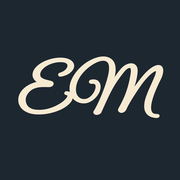
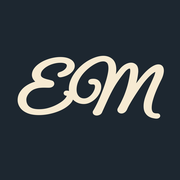
Bold + transparent the EM monogram
icon.svg and favicon.ico drop the slate tile for a transparent
background and switch the letters to dark ink — cream nearly vanished
against the light tab bar most browsers still default to. Bumped the
stroke weight across all faces (icon.svg, favicon.ico, apple-icon.png)
so the script reads clearly at 16px instead of thinning out.
apple-icon.png keeps its opaque tile: iOS still fills transparent
pixels in with black on plenty of devices.

diff --git a/scripts/gen-social-assets.py b/scripts/gen-social-assets.py
@@ -2,10 +2,16 @@
 # site: the browser-tab / home-screen icon and the card that unfurls when the URL
 # is pasted into iMessage, Slack, Discord, X, LinkedIn…
 #
-#   src/app/icon.svg              cursive "EM" monogram, vector (modern browsers)
+#   src/app/icon.svg              cursive "EM" monogram, vector, transparent bg
 #   src/app/favicon.ico           the same monogram at 16/32/48 (legacy browsers)
 #   src/app/apple-icon.png        180x180, full-bleed (iOS rounds it itself)
 #   src/app/opengraph-image.jpg   1200x630 social card — the hero, re-framed
+#
+# icon.svg / favicon.ico are transparent so they sit on whatever chrome color
+# the browser gives them, and use dark ink rather than the site's cream accent
+# — cream nearly disappears against the light tab bar most browsers still
+# default to. apple-icon.png keeps its solid tile: iOS still fills transparent
+# pixels in with black on plenty of devices, so it isn't worth the risk there.
 #
 # Next picks all four up by filename (see the app-icons / opengraph-image file
 # conventions) — nothing imports them.
@@ -74,9 +80,10 @@ GLYPH_WIDTH = 0.80
 GLYPH_NUDGE_Y = -0.015
 # Outward thickening of every stroke, as a fraction of the tile. Great Vibes'
 # hairlines are thinner than one device pixel at tab size and drop out to
-# nothing; this is optical-size compensation, kept small enough that the script
-# still looks like a script at 512. Anything past ~0.010 turns it into a blob.
-GLYPH_WEIGHT = 0.008
+# nothing; this is optical-size compensation as much as a style choice, kept
+# proportional so all four faces read as the same weight. Past ~0.016 the
+# counters (the loops inside the E and M) start filling in and it blobs.
+GLYPH_WEIGHT = 0.012
 
 
 def monogram_outline(font_path: Path):
@@ -109,7 +116,7 @@ def monogram_outline(font_path: Path):
 
 
 def write_icon_svg(font_path: Path, size: int = 512) -> None:
-    """The vector icon: cream monogram on a rounded slate tile."""
+    """The vector icon: bold dark-ink monogram, transparent background."""
     path, (x0, y0, x1, y1), _upm = monogram_outline(font_path)
     scale = (GLYPH_WIDTH * size) / (x1 - x0)
     # Flip Y, then land the ink's center on the tile's (nudged) center.
@@ -120,9 +127,8 @@ def write_icon_svg(font_path: Path, size: int = 512) -> None:
     # divide by the group's scale because it's applied in font units.
     stroke = 2 * GLYPH_WEIGHT * size / scale
     svg = f"""<svg xmlns="http://www.w3.org/2000/svg" viewBox="0 0 {size} {size}" width="{size}" height="{size}">
-  <rect width="{size}" height="{size}" rx="{round(size * 0.22)}" fill="rgb{SLATE}"/>
   <g transform="translate({tx:.2f} {ty:.2f}) scale({scale:.5f} {-scale:.5f})">
-    <path fill="rgb{CREAM}" stroke="rgb{CREAM}" stroke-width="{stroke:.1f}"
+    <path fill="rgb{SLATE}" stroke="rgb{SLATE}" stroke-width="{stroke:.1f}"
           stroke-linejoin="round" stroke-linecap="round" d="{path}"/>
   </g>
 </svg>
@@ -131,23 +137,27 @@ def write_icon_svg(font_path: Path, size: int = 512) -> None:
     print("wrote src/app/icon.svg")
 
 
-def render_monogram(font_path: Path, size: int, radius_frac: float) -> Image.Image:
-    """Raster tile, drawn 4x and downsampled so the hairlines survive.
+def render_monogram(
+    font_path: Path, size: int, ink, bg=None, radius_frac: float = 0
+) -> Image.Image:
+    """Raster tile, drawn 8x and downsampled so the hairlines survive.
 
     Great Vibes' thin strokes drop out entirely if rasterized straight at 16 or
-    32px; supersampling turns them into soft grays instead of gaps.
+    32px; supersampling turns them into soft grays instead of gaps. `bg=None`
+    leaves the tile transparent; otherwise it's filled (rounded if radius_frac).
     """
     ss = 8
     box = size * ss
     tile = Image.new("RGBA", (box, box), (0, 0, 0, 0))
-    if radius_frac:
-        mask = Image.new("L", (box, box), 0)
-        ImageDraw.Draw(mask).rounded_rectangle(
-            (0, 0, box - 1, box - 1), radius=round(box * radius_frac), fill=255
-        )
-        tile.paste(Image.new("RGBA", (box, box), (*SLATE, 255)), mask=mask)
-    else:
-        tile.paste(Image.new("RGBA", (box, box), (*SLATE, 255)))
+    if bg is not None:
+        if radius_frac:
+            mask = Image.new("L", (box, box), 0)
+            ImageDraw.Draw(mask).rounded_rectangle(
+                (0, 0, box - 1, box - 1), radius=round(box * radius_frac), fill=255
+            )
+            tile.paste(Image.new("RGBA", (box, box), (*bg, 255)), mask=mask)
+        else:
+            tile.paste(Image.new("RGBA", (box, box), (*bg, 255)))
 
     # Match the SVG's framing: scale by ink width, center on the ink's bbox.
     probe = ImageFont.truetype(str(font_path), 100)
@@ -163,22 +173,25 @@ def render_monogram(font_path: Path, size: int, radius_frac: float) -> Image.Ima
         ),
         MONOGRAM,
         font=font,
-        fill=(*CREAM, 255),
+        fill=(*ink, 255),
         stroke_width=round(box * GLYPH_WEIGHT),
-        stroke_fill=(*CREAM, 255),
+        stroke_fill=(*ink, 255),
     )
     return tile.resize((size, size), Image.LANCZOS)
 
 
 def write_raster_icons(font_path: Path) -> None:
-    # iOS applies its own rounding + it dislikes transparency, so ship it square.
-    render_monogram(font_path, 180, radius_frac=0).convert("RGB").save(
+    # iOS applies its own rounding + it dislikes transparency, so ship it square
+    # and opaque — same tile look the icon used to have everywhere.
+    render_monogram(font_path, 180, ink=CREAM, bg=SLATE).convert("RGB").save(
         APP / "apple-icon.png"
     )
     print("wrote src/app/apple-icon.png")
 
+    # Transparent + dark ink so it holds up on the light tab bar most browsers
+    # still default to (cream would all but vanish there).
     sizes = [16, 32, 48]
-    largest = render_monogram(font_path, sizes[-1], radius_frac=0.22)
+    largest = render_monogram(font_path, sizes[-1], ink=SLATE)
     largest.save(APP / "favicon.ico", sizes=[(s, s) for s in sizes])
     print("wrote src/app/favicon.ico")
 
